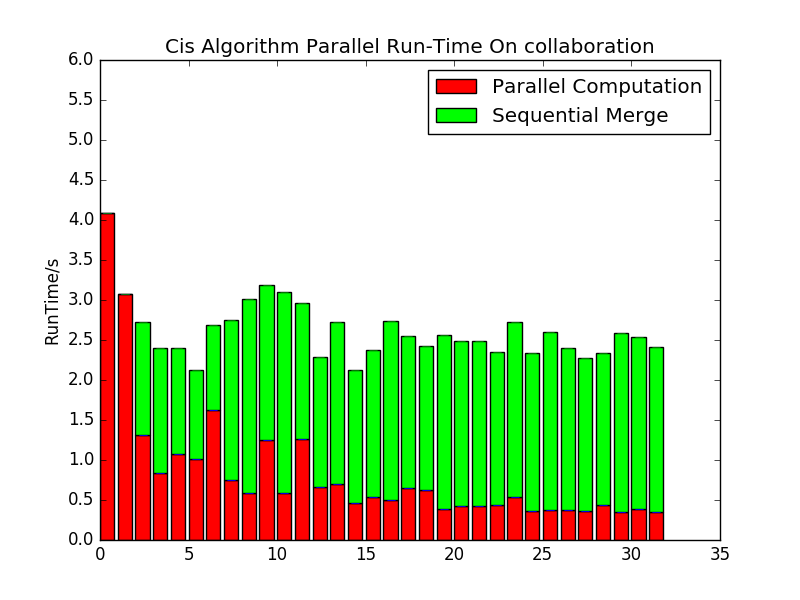
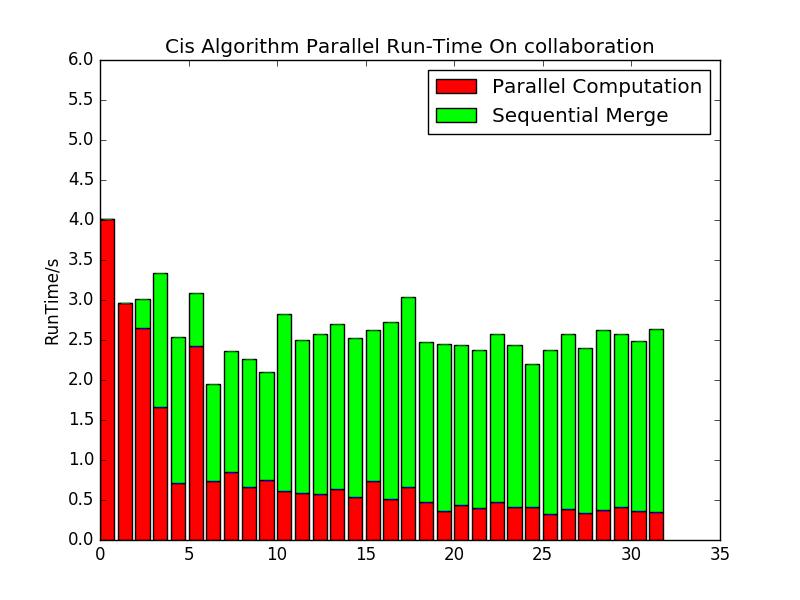
update figures and readme

Changed region(s): [[0.125, 0.45, 0.8438, 0.87], [0.125, 0.33, 0.1562, 0.39]]

diff --git a/Codes-Yche/ReadMe.md b/Codes-Yche/ReadMe.md
@@ -85,11 +85,21 @@ Desktop(4-core)-NoReduce | Desktop(4-core)-Reduce
 ![CisExpLabV1](./images/lab_desk_top/collaboration_cis_lab_v1.png) | ![CisExpLabV2](./images/lab_desk_top/collaboration_cis_lab_v2.png)
 ![DemonExpLabV1](./images/lab_desk_top/collaboration_demon_lab_v1.png) | ![DemonExpLabV2](./images/lab_desk_top/collaboration_demon_lab_v2.png)
 
+Laptop(2-core)-NoReduce | Laptop(2-core)-Reduce
+------------------------ | ----------------------
+![CisExpV1](./images/lab_desk_top/collaboration_cis_v1.png) | ![CisExpV2](./images/lab_desk_top/collaboration_cis_v2.png)
+![DemonExpV1](./images/lab_desk_top/collaboration_demon_v1.png) | ![DemonExpV2](./images/lab_desk_top/collaboration_demon_v2.png)
+
 ##Facebook 80 thousand edges
 Desktop(4-core)-NoReduce | Desktop(4-core)-Reduce
 ------------------------ | ----------------------
 ![CisExpLabV1](./images/lab_desk_top/facebook_cis_lab_v1.png) | ![CisExpLabV2](./images/lab_desk_top/facebook_cis_lab_v2.png)
 ![DemonExpLabV1](./images/lab_desk_top/facebook_demon_lab_v1.png) | ![DemonExpLabV2](./images/lab_desk_top/facebook_demon_lab_v2.png)
+
+Laptop(2-core)-NoReduce | Laptop(2-core)-Reduce
+------------------------ | ----------------------
+![CisExpV1](./images/lab_desk_top/facebook_cis_v1.png) | ![CisExpV2](./images/lab_desk_top/facebook_cis_v2.png)
+![DemonExpV1](./images/lab_desk_top/facebook_demo_v1.png) | ![DemonExpV2](./images/lab_desk_top/facebook_demon_v2.png)
 
 #Attention Please/Advice For Pthread Programming
 - Pthread_Create, void * have to make the input arguments existing until they are joined
